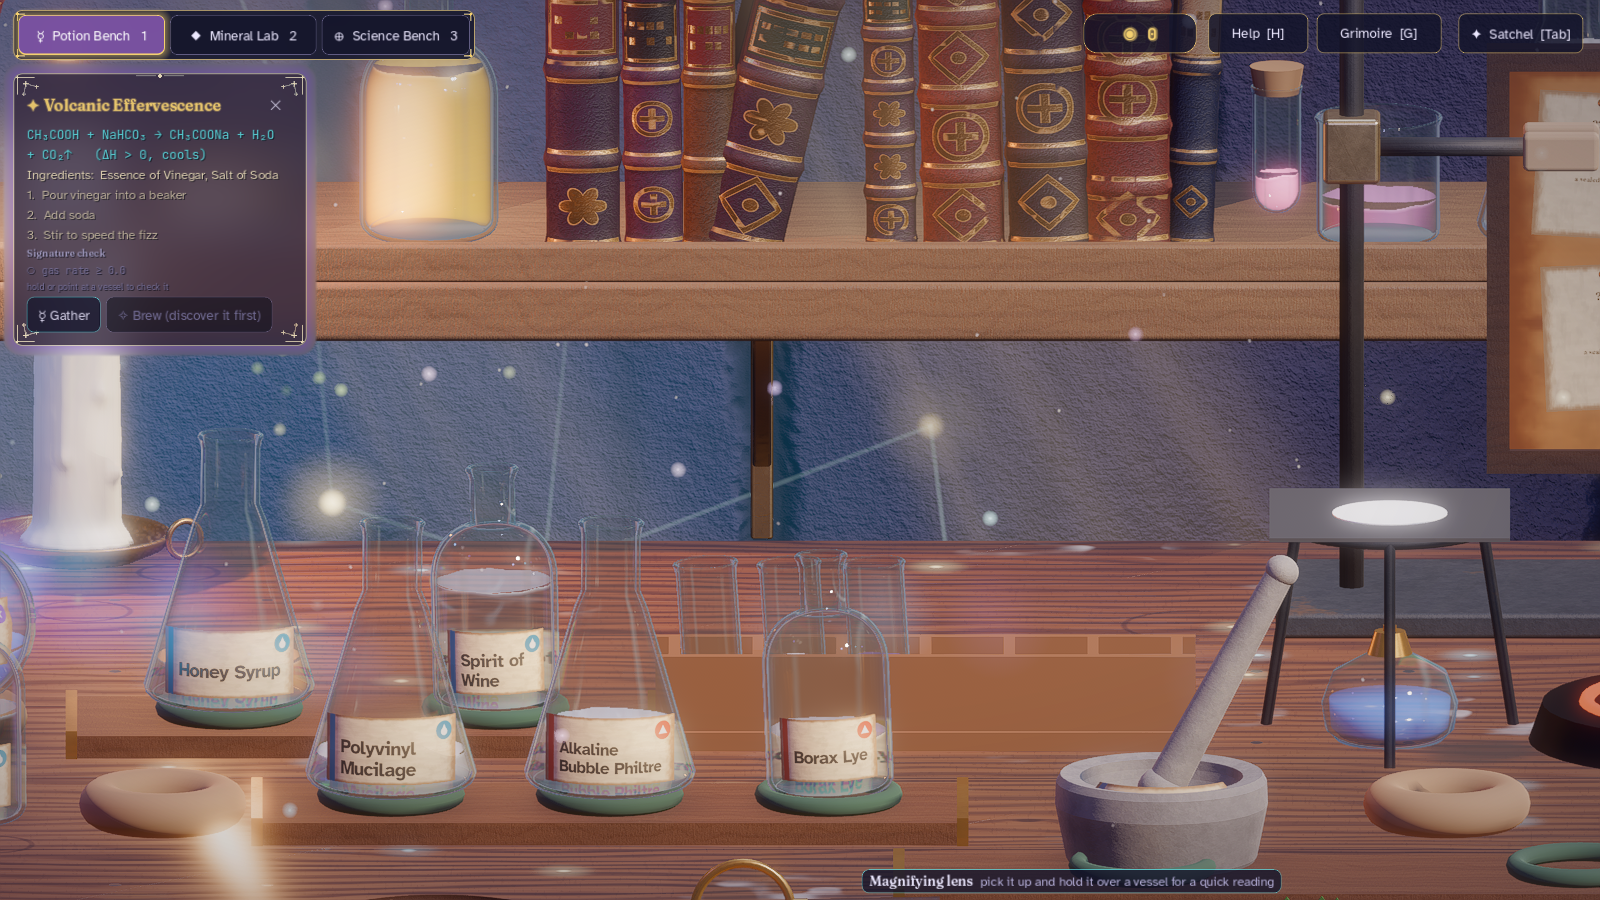
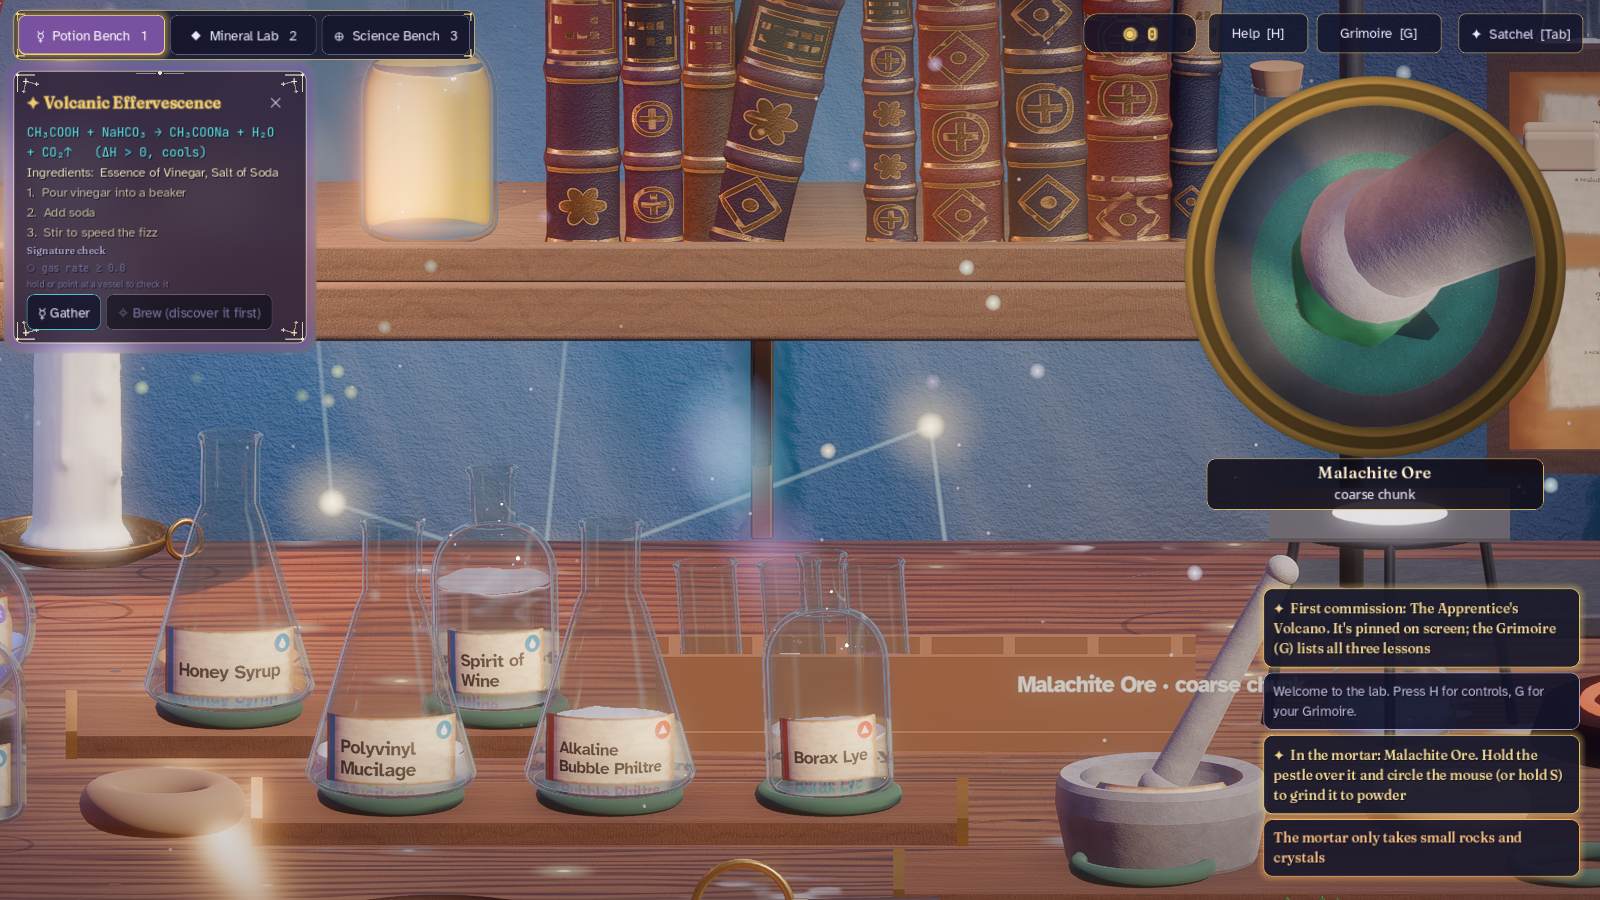
Mortar: top-down loupe, pounding with the wheel or Space, price warning for gems
The side view hides what is in the bowl, so grinding now shows a round
top-down inset with the stage and progress. A wheel notch or Space lifts the
pestle and slams it down (a hard crushing stroke with sparks). Carrying a
valuable find over the mortar shows what it is worth before it is ground.
Machine intakes no longer push stirring tools out.

diff --git a/CLAUDE.md b/CLAUDE.md
@@ -33,7 +33,7 @@ Every script, 3D scene (`.tscn`), resource (`.tres`), and shader (`.gdshader`) m
 
 > **Powders (2026-11-22, owner request):** `Vessel3D.granular` is on when solids dominate (liquid < `POWDER_LIQUID_RATIO` x solid volume). The bed is a frictional heap (`_heap_normal_local`) that turns with the glass until it passes `repose_deg`, then slips back (stick-slip, `sand_pour`); knocks slump it level. `repose_deg` comes from data (solid bulk density via `MixtureContainer.get_solid_mass_kg`, dampness). Pouring is Beverloo-style (`_pour_powder`: only a `POWDER_FLOW_LAYER_METERS` layer slides off the lip, steady trickle in surges, `transfer_fraction_to`); misses heap up as cones in `PowderPiles3D` (`powder_pile.gdshader`), never puddles. Shader: `granular`/`powder_damp` in `liquid_common.gdshaderinc` (opaque matte grains); `PourStream3D.show_arc(..., granular)` draws a grainy stream; `powder_pour_loop` sound. The hand's pour assist works for powders (`Vessel3D.can_pour_contents`). Check with `tests/perf/smoke_powder.gd`; demo flag `powder`.
 
-> **Mortar & pestle (2026-11-22):** `Furniture/Mortar` is `MortarBowl3D` (a stone `Vessel3D` with a lathed profile: pick it up and tip the powder out) and `Furniture/Pestle` is `Pestle3D` (a `StirTool3D`; the hand's stir assist circles it round the bowl floor, hint "Grinding"). Small uncut rocks/crystals let go over the bowl drop in (`MachineIntake`, frozen and seated). Grinding work = head travel x force: it wears the rock (`GRIND_J_PER_KG_PER_MOHS` x Mohs per kg) into its `crush_products`, then raises `MixtureContainer.grain_surface` (1..`GRAIN_SURFACE_MAX`=4, blended by solid mass on transfers, reset by `clear`). Solids react on that surface: dissolution, proton transfer and redox rates are multiplied by `_surface_boost`. 70% of the work heats the contents; a fast downward blow sets `ignition_source` (sparks). Finer powder draws paler (`powder_fineness`) and its tag reads "Finely ground". Check with `tests/perf/smoke_mortar.gd` and `tests/unit/test_grinding.gd`; demo flag `mortar`.
+> **Mortar & pestle (2026-11-22):** `Furniture/Mortar` is `MortarBowl3D` (a stone `Vessel3D` with a lathed profile: pick it up and tip the powder out) and `Furniture/Pestle` is `Pestle3D` (a `StirTool3D`; the hand's stir assist circles it round the bowl floor, hint "Grinding"). Small uncut rocks/crystals let go over the bowl drop in (`MachineIntake`, frozen and seated). Grinding work = head travel x force: it wears the rock (`GRIND_J_PER_KG_PER_MOHS` x Mohs per kg) into its `crush_products`, then raises `MixtureContainer.grain_surface` (1..`GRAIN_SURFACE_MAX`=4, blended by solid mass on transfers, reset by `clear`). Solids react on that surface: dissolution, proton transfer and redox rates are multiplied by `_surface_boost`. 70% of the work heats the contents; a fast downward blow sets `ignition_source` (sparks). Finer powder draws paler (`powder_fineness`) and its tag reads "Finely ground". Check with `tests/perf/smoke_mortar.gd` and `tests/unit/test_grinding.gd`; demo flag `mortar`. While grinding, `FacetLoupe.show_overhead` shows a top-down inset of the bowl (the side view hides its contents); the wheel or Space pounds (`TactileGrabber3D._try_pound` -> `Pestle3D.pound`: lift, strike, `MortarBowl3D.pound`, sparks); a find worth 15+ coins shows its price on the mortar's drop marker. `MachineIntake` never refuses `StirTool3D`s.
 
 * **Engine:** Godot 4.4+ (3D) with **Jolt Physics 3D** enabled as the default physics backend.
 * **Languages:**
